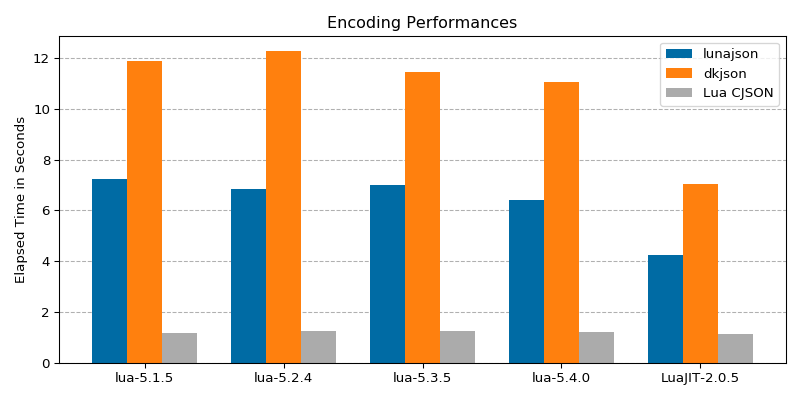
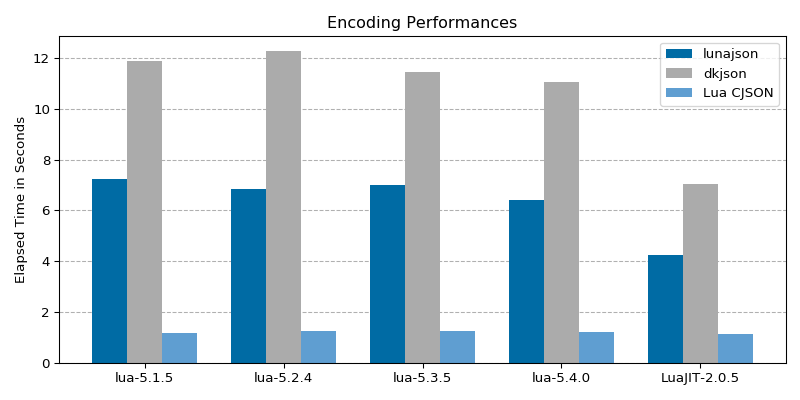
encode color

diff --git a/bench/plot.py b/bench/plot.py
@@ -8,40 +8,42 @@ import yaml
 
 LIB_NAMES = {
     'decode': {
-        'lunajson': "lunajson decoder",
-        'lunajson_sax': "lunajson SAX",
-        'dkjson_lpeg': "dkjson with lpeg",
-        'dkjson_pure': "dkjson w/o lpeg",
-        'cjson': "Lua CJSON",
+        'lunajson': ("lunajson decoder", 'C0'),
+        'lunajson_sax': ("lunajson SAX", 'C1'),
+        'dkjson_pure': ("dkjson w/o lpeg", 'C2'),
+        'dkjson_lpeg': ("dkjson with lpeg", 'C3'),
+        'cjson': ("Lua CJSON", 'C4'),
     },
     'encode': {
-        'lunajson': "lunajson",
-        'dkjson': "dkjson",
-        'cjson': "Lua CJSON",
+        'lunajson': ("lunajson", 'C0'),
+        'dkjson': ("dkjson", 'C2'),
+        'cjson': ("Lua CJSON", 'C4'),
     },
 }
 
 
 def load_result(f):
     lua_impls = []
+    colors = {}
     data_dict = defaultdict(lambda: defaultdict(list))
 
     for lua_result in yaml.safe_load_all(f):
         lua_impls.append(lua_result['lua_impl'])
         for op in ('decode', 'encode'):
             for lib, lib_result in lua_result[op].items():
-                libname = LIB_NAMES[op][lib]
+                libname, color = LIB_NAMES[op][lib]
+                colors[libname] = color
                 for task, time in lib_result.items():
                     filename = op + '-' + task
                     data_dict[filename][libname].append(time)
 
-    return lua_impls, data_dict
+    return lua_impls, colors, data_dict
 
 
-def plot_data(filename, lua_impls, data):
+def plot_data(filename, lua_impls, colors, data):
     dpi = 96
-    plt.style.use('tableau-colorblind10')
     fig, ax = plt.subplots(figsize=(800/dpi, 400/dpi))
+    plt.style.use('tableau-colorblind10')
 
     if 'decode' in filename:
         ax.set_title("Decoding Performances")
@@ -59,7 +61,8 @@ def plot_data(filename, lua_impls, data):
     for i, (libname, times) in enumerate(data.items()):
         barcenter = (i - 0.5 * (len(data) - 1)) * groupwidth / len(data)
         barwidth = groupwidth / len(data)
-        ax.bar(xticks + barcenter, times, width=barwidth, label=libname)
+        ax.bar(xticks + barcenter, times,
+               color=colors[libname], width=barwidth, label=libname)
 
     ax.legend()
     fig.tight_layout()
@@ -71,9 +74,9 @@ def main():
     mpl.use('Agg')
 
     with open('bench_result.yml') as f:
-        lua_impls, data_dict = load_result(f)
+        lua_impls, colors, data_dict = load_result(f)
         for filename, data in data_dict.items():
-            plot_data(filename, lua_impls, data)
+            plot_data(filename, lua_impls, colors, data)
 
 
 if __name__ == '__main__':
